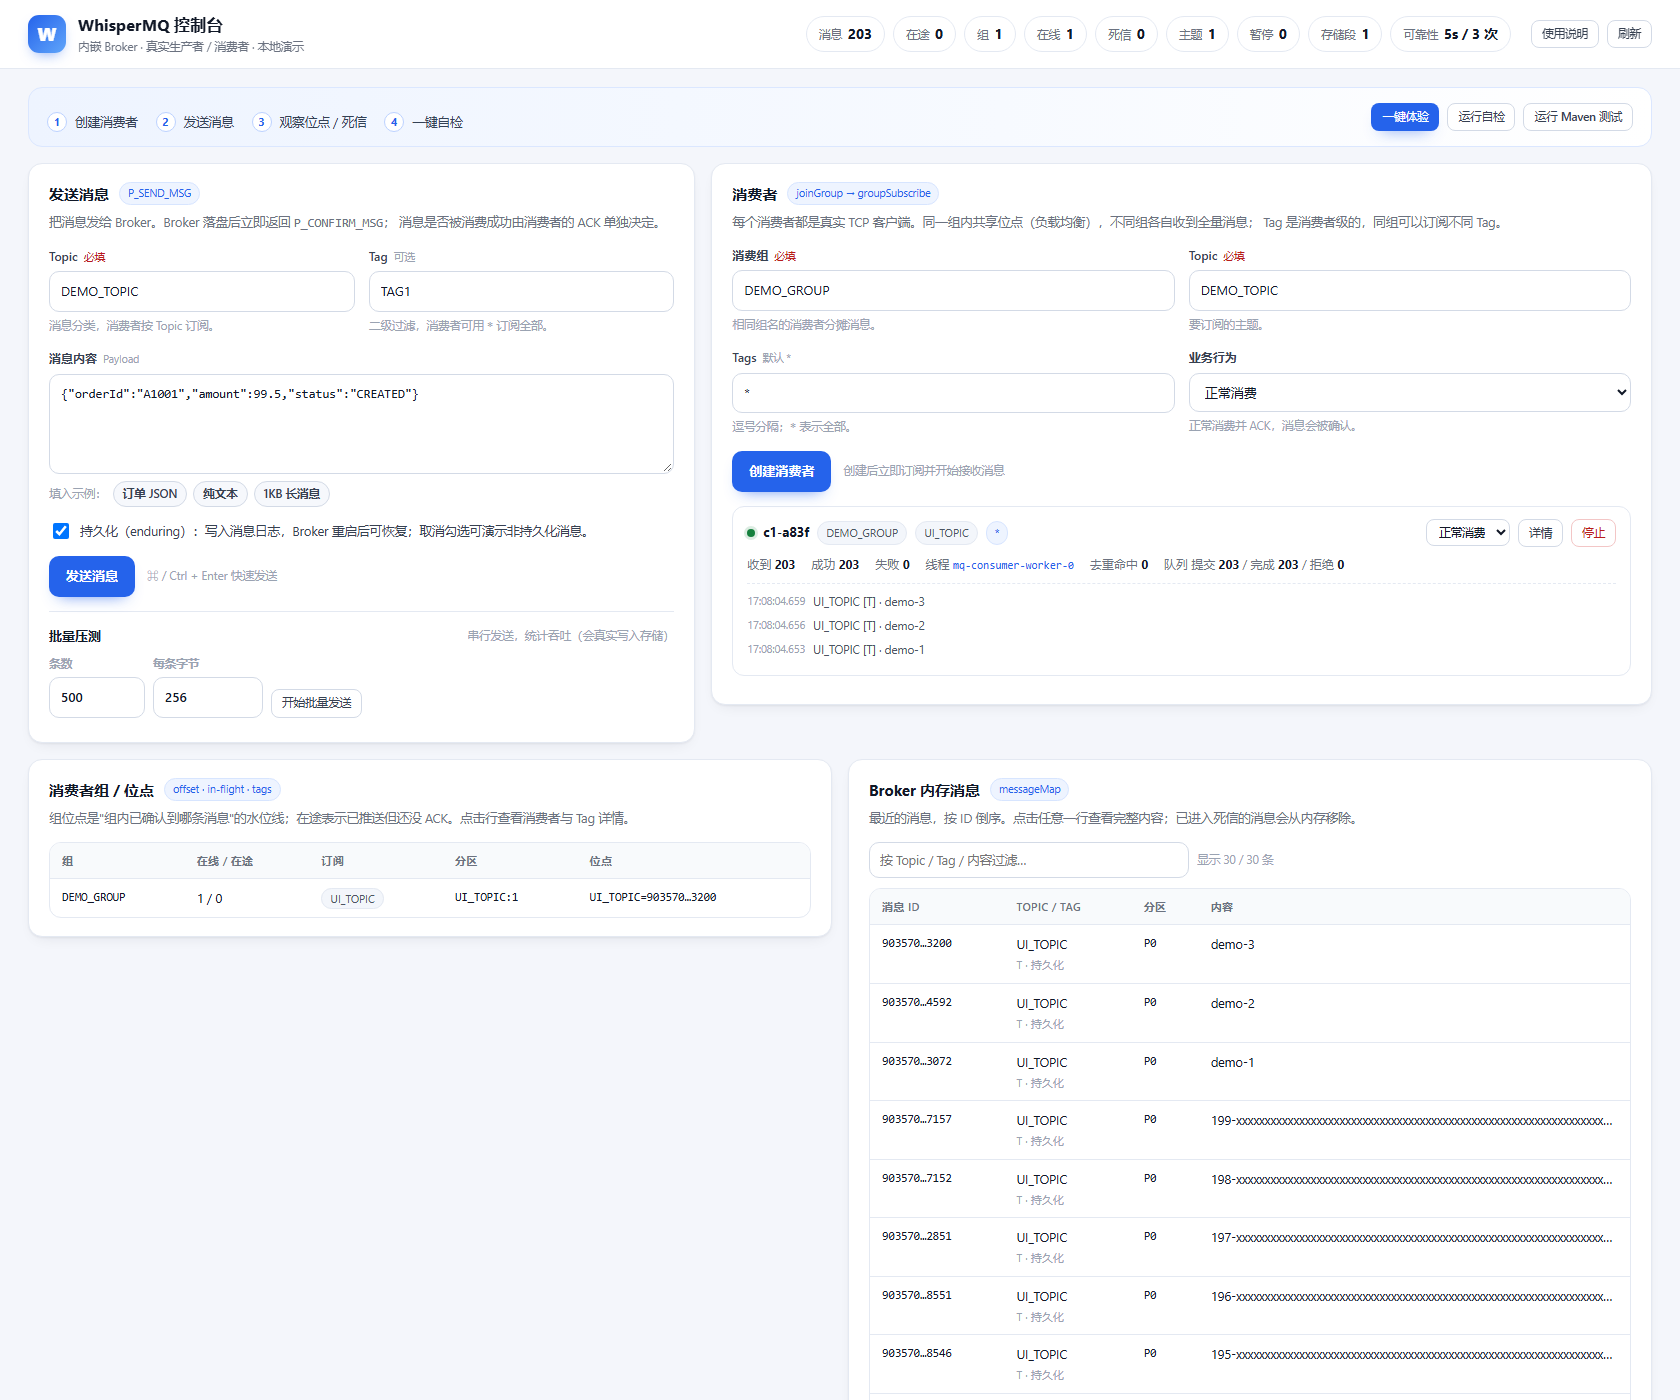
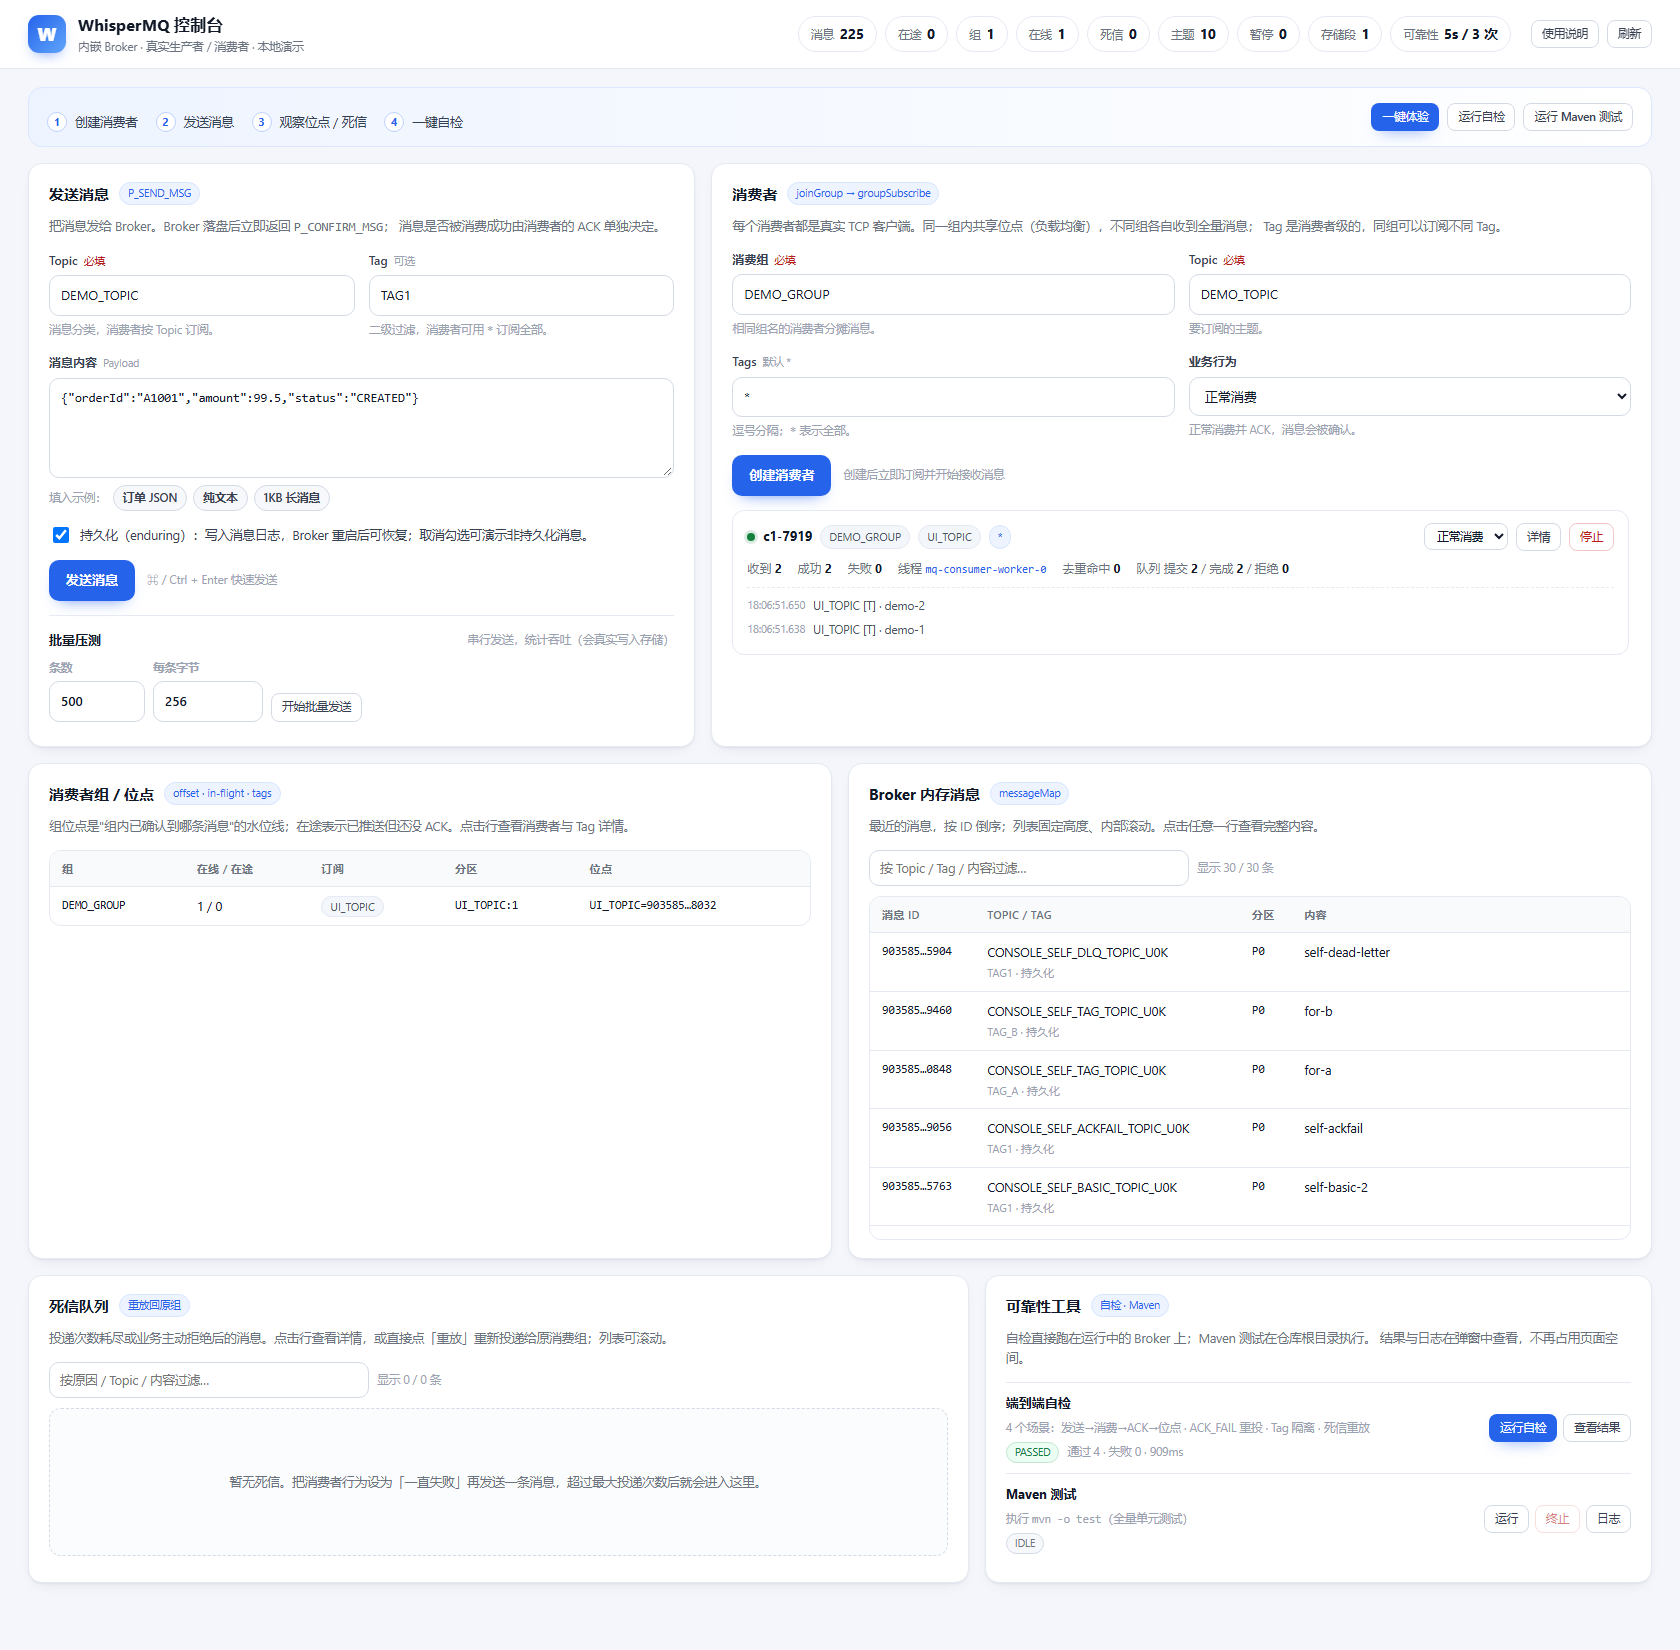
feat(console): 重排布局，消息列表滚动 + 自检结果弹窗
- 卡片改为等高布局（grid stretch + flex column），消除“长的长短的短”
- Broker 消息列表固定高度内部滚动、表头吸顶；消费者/组/死信列表同样限高滚动
- 自检与 Maven 测试收敛为紧凑的「可靠性工具」卡片：只保留状态与操作按钮，
  结果与日志移到独立弹窗；自检完成后自动弹窗，也可手动「查看结果」
- Maven 日志弹窗支持运行中实时刷新
- 更新控制台截图

diff --git a/WhisperMQ-console/src/main/resources/static/index.html b/WhisperMQ-console/src/main/resources/static/index.html
@@ -96,11 +96,12 @@
   /* ---------------------------------------------------------------- 布局 */
   main {
     display: grid; grid-template-columns: repeat(12, 1fr); gap: 16px;
-    align-items: start; padding: 16px 28px 48px;
+    align-items: stretch; padding: 16px 28px 48px;
   }
   .card {
     background: var(--card); border: 1px solid var(--line); border-radius: var(--radius);
     padding: 18px 20px; box-shadow: var(--shadow); min-width: 0; scroll-margin-top: 92px;
+    display: flex; flex-direction: column;
   }
   .card.flash { animation: flash 1.4s ease; }
   @keyframes flash {
@@ -119,6 +120,27 @@
   .span-6 { grid-column: span 6; }
   .span-7 { grid-column: span 7; }
   .span-12 { grid-column: span 12; }
+
+  /* 固定高度滚动区：避免卡片被列表无限拉长 */
+  .table-wrap.scroll { max-height: 344px; overflow: auto; }
+  .table-wrap.scroll thead th { position: sticky; top: 0; z-index: 1; background: #f8fafc; }
+  #consumers { max-height: 352px; overflow: auto; padding-right: 2px; }
+  #groups { max-height: 300px; overflow: auto; }
+  #dlq .table-wrap { max-height: 236px; overflow: auto; }
+  #dlq .table-wrap thead th { position: sticky; top: 0; z-index: 1; background: #f8fafc; }
+
+  /* 工具卡片（自检 / Maven） */
+  .tool-row {
+    display: flex; align-items: center; justify-content: space-between; gap: 12px;
+    padding: 10px 0; border-top: 1px solid var(--line);
+  }
+  .tool-row:first-of-type { border-top: none; padding-top: 4px; }
+  .tool-info { display: flex; flex-direction: column; gap: 5px; min-width: 0; }
+  .tool-info strong { font-size: 13px; }
+  .tool-status { display: flex; align-items: center; gap: 8px; flex-wrap: wrap; }
+  .tool-actions { display: flex; gap: 6px; flex-wrap: wrap; justify-content: flex-end; }
+  .modal-log { max-height: 320px; overflow: auto; }
+  #groups .empty, #dlq .empty { min-height: 148px; display: flex; align-items: center; justify-content: center; }
 
   /* ---------------------------------------------------------------- 表单 */
   form { display: grid; grid-template-columns: 1fr 1fr; gap: 14px; }
@@ -530,7 +552,7 @@
       <h2>Broker 内存消息</h2>
       <span class="badge-soft">messageMap</span>
     </div>
-    <p class="desc">最近的消息，按 ID 倒序。点击任意一行查看完整内容；已进入死信的消息会从内存移除。</p>
+    <p class="desc">最近的消息，按 ID 倒序；列表固定高度、内部滚动。点击任意一行查看完整内容。</p>
     <div class="filter-row">
       <input id="msgFilter" class="filter" placeholder="按 Topic / Tag / 内容过滤…" autocomplete="off">
       <span class="count" id="msgCount"></span>
@@ -544,7 +566,7 @@
       <h2>死信队列</h2>
       <span class="badge-soft">重放回原组</span>
     </div>
-    <p class="desc">投递次数耗尽或业务主动拒绝后的消息。点击行查看详情，或直接点「重放」重新投递给原消费组。</p>
+    <p class="desc">投递次数耗尽或业务主动拒绝后的消息。点击行查看详情，或直接点「重放」重新投递给原消费组；列表可滚动。</p>
     <div class="filter-row">
       <input id="dlqFilter" class="filter" placeholder="按原因 / Topic / 内容过滤…" autocomplete="off">
       <span class="count" id="dlqCount"></span>
@@ -555,32 +577,43 @@
   <!-- ============================================================ 测试 -->
   <section class="card span-5" id="testCard">
     <div class="card-head">
-      <h2>测试</h2>
-      <span class="badge-soft">一键验证</span>
+      <h2>可靠性工具</h2>
+      <span class="badge-soft">自检 · Maven</span>
     </div>
-    <p class="desc">自检直接跑在运行中的 Broker 上；Maven 测试在仓库根目录执行，日志实时回显。</p>
+    <p class="desc">
+      自检直接跑在运行中的 Broker 上；Maven 测试在仓库根目录执行。
+      结果与日志在弹窗中查看，不再占用页面空间。
+    </p>
 
-    <div class="test-block">
-      <h3>端到端自检</h3>
-      <p class="desc">4 个场景：发送→消费→ACK→位点 · ACK_FAIL 重投 · Tag 隔离 · 死信重放，约 1~2 秒。</p>
-      <div class="row" style="display:flex;gap:8px;align-items:center;">
+    <div class="tool-row">
+      <div class="tool-info">
+        <strong>端到端自检</strong>
+        <span class="hint">4 个场景：发送→消费→ACK→位点 · ACK_FAIL 重投 · Tag 隔离 · 死信重放</span>
+        <div class="tool-status">
+          <span class="badge idle" id="selfTestBadge">IDLE</span>
+          <span class="hint" id="selfTestMeta"></span>
+        </div>
+      </div>
+      <div class="tool-actions">
         <button class="primary small" id="selfTestBtn">运行自检</button>
-        <span class="badge idle" id="selfTestBadge">IDLE</span>
-        <span class="hint" id="selfTestMeta"></span>
+        <button class="ghost small" id="selfResultBtn" disabled>查看结果</button>
       </div>
-      <div id="selfTest"></div>
     </div>
 
-    <div class="test-block" style="margin-bottom:0;">
-      <h3>Maven 测试</h3>
-      <p class="desc">执行 <code>whisper-console.maven-command</code>（默认 <code>mvn -o test</code>），当前 27 个单元测试。</p>
-      <div class="row" style="display:flex;gap:8px;align-items:center;">
-        <button class="ghost small" id="mavenTestBtn">运行 Maven 测试</button>
-        <button class="danger small" id="cancelMavenBtn" disabled>终止</button>
-        <span class="badge idle" id="mavenBadge">IDLE</span>
-        <span class="hint" id="mavenMeta"></span>
+    <div class="tool-row">
+      <div class="tool-info">
+        <strong>Maven 测试</strong>
+        <span class="hint">执行 <code>mvn -o test</code>（全量单元测试）</span>
+        <div class="tool-status">
+          <span class="badge idle" id="mavenBadge">IDLE</span>
+          <span class="hint" id="mavenMeta"></span>
+        </div>
       </div>
-      <pre class="log" id="mavenLog"></pre>
+      <div class="tool-actions">
+        <button class="ghost small" id="mavenTestBtn">运行</button>
+        <button class="danger small" id="cancelMavenBtn" disabled>终止</button>
+        <button class="ghost small" id="mavenLogBtn">日志</button>
+      </div>
     </div>
   </section>
 </main>
@@ -894,7 +927,7 @@
       </div>`;
       return;
     }
-    $('#messages').innerHTML = `<div class="table-wrap"><table>
+    $('#messages').innerHTML = `<div class="table-wrap scroll"><table>
       <thead><tr><th>消息 ID</th><th>Topic / Tag</th><th>分区</th><th>内容</th></tr></thead>
       <tbody>${filtered.map(m => `
         <tr class="clickable" data-msg="${esc(m.messageId)}" title="点击查看完整内容">
@@ -938,6 +971,7 @@
   // ------------------------------------------------------------------ 测试状态
   let selfSig = '';
   function renderSelfTest(state) {
+    const previous = lastSelf;
     lastSelf = state;
     const status = state.status || 'IDLE';
     const badge = $('#selfTestBadge');
@@ -948,21 +982,28 @@
       : `通过 ${state.passed ?? 0} · 失败 ${state.failed ?? 0} · ${state.durationMillis ?? 0}ms`;
     $('#selfTestBtn').disabled = status === 'RUNNING';
     $('#selfTestTopBtn').disabled = status === 'RUNNING';
+    $('#selfResultBtn').disabled = !(state.steps && state.steps.length);
 
-    const sig = JSON.stringify([status, state.passed, state.failed,
-      (state.steps || []).length, (state.logs || []).length]);
-    if (sig === selfSig) return;
-    selfSig = sig;
+    // 运行结束自动弹出结果；用户关掉后不再打扰
+    if (previous && previous.status === 'RUNNING' && status !== 'RUNNING') {
+      openSelfResultModal();
+    }
+  }
 
+  function openSelfResultModal() {
+    const state = lastSelf || {};
     const steps = (state.steps || []).map(s => `
       <li class="${s.ok ? 'ok' : 'bad'}">
         <span class="icon">${s.ok ? '✓' : '✗'}</span>
         <span>${esc(s.name)}<span class="detail">${esc(s.detail)}</span></span>
       </li>`).join('');
     const logs = (state.logs || []).join('\n');
-    $('#selfTest').innerHTML = steps
-      ? `<ul class="steps">${steps}</ul>${logs ? `<details><summary>查看运行日志</summary><pre class="log">${esc(logs)}</pre></details>` : ''}`
-      : '';
+    const title = (state.status === 'PASSED' ? '<span class="badge ok">PASSED</span> '
+      : state.status === 'FAILED' ? '<span class="badge bad">FAILED</span> ' : '')
+      + '自检结果';
+    openModal(title, steps
+      ? `<ul class="steps">${steps}</ul>${logs ? `<pre class="log modal-log">${esc(logs)}</pre>` : ''}`
+      : '<div class="empty">还没有运行过自检。点「运行自检」后这里会显示 4 个场景的结果。</div>');
   }
 
   let mavenSig = '';
@@ -984,11 +1025,25 @@
     const sig = JSON.stringify([status, state.exitCode, lines.length]);
     if (sig === mavenSig) return;
     mavenSig = sig;
-    const text = lines.slice(-240).join('\n');
-    const pre = $('#mavenLog');
-    const atBottom = pre.scrollTop + pre.clientHeight >= pre.scrollHeight - 40;
-    pre.textContent = text || (running ? '正在启动…' : '');
-    if (running && atBottom) pre.scrollTop = pre.scrollHeight;
+
+    const pre = $('#mavenModalLog');
+    if (pre) {
+      const atBottom = pre.scrollTop + pre.clientHeight >= pre.scrollHeight - 40;
+      pre.textContent = lines.slice(-240).join('\n') || (running ? '正在启动…' : '');
+      if (running && atBottom) pre.scrollTop = pre.scrollHeight;
+    }
+  }
+
+  function openMavenLogModal() {
+    const state = lastMaven || {};
+    const lines = (state.lines || []).slice(-240).join('\n');
+    const status = state.status || 'IDLE';
+    openModal('Maven 测试日志', `
+      <div class="hint" style="margin-bottom:8px;">
+        ${esc(state.command || 'mvn -o test')} · ${esc(status)}
+        ${state.exitCode != null ? ' · exit=' + esc(state.exitCode) : ''}
+      </div>
+      <pre class="log modal-log" id="mavenModalLog">${esc(lines || (status === 'RUNNING' ? '正在启动…' : '还没有运行过 Maven 测试。'))}</pre>`);
   }
 
   // ------------------------------------------------------------------ 详情
@@ -1372,6 +1427,8 @@
   });
 
   $('#selfTestBtn').addEventListener('click', () => runSelfTest());
+  $('#selfResultBtn').addEventListener('click', openSelfResultModal);
+  $('#mavenLogBtn').addEventListener('click', openMavenLogModal);
   $('#selfTestTopBtn').addEventListener('click', () => runSelfTest(true));
   $('#mavenTestBtn').addEventListener('click', () => runMavenTest());
   $('#mavenTopBtn').addEventListener('click', () => runMavenTest(true));
@@ -1391,6 +1448,7 @@
     try {
       await api('/api/test/maven', { method: 'POST' });
       if (scroll) scrollToCard('#testCard');
+      openMavenLogModal();
       toast('Maven 测试已启动（在仓库根目录执行）', 'ok');
       setTimeout(loadTests, 300);
     } catch (e) {
